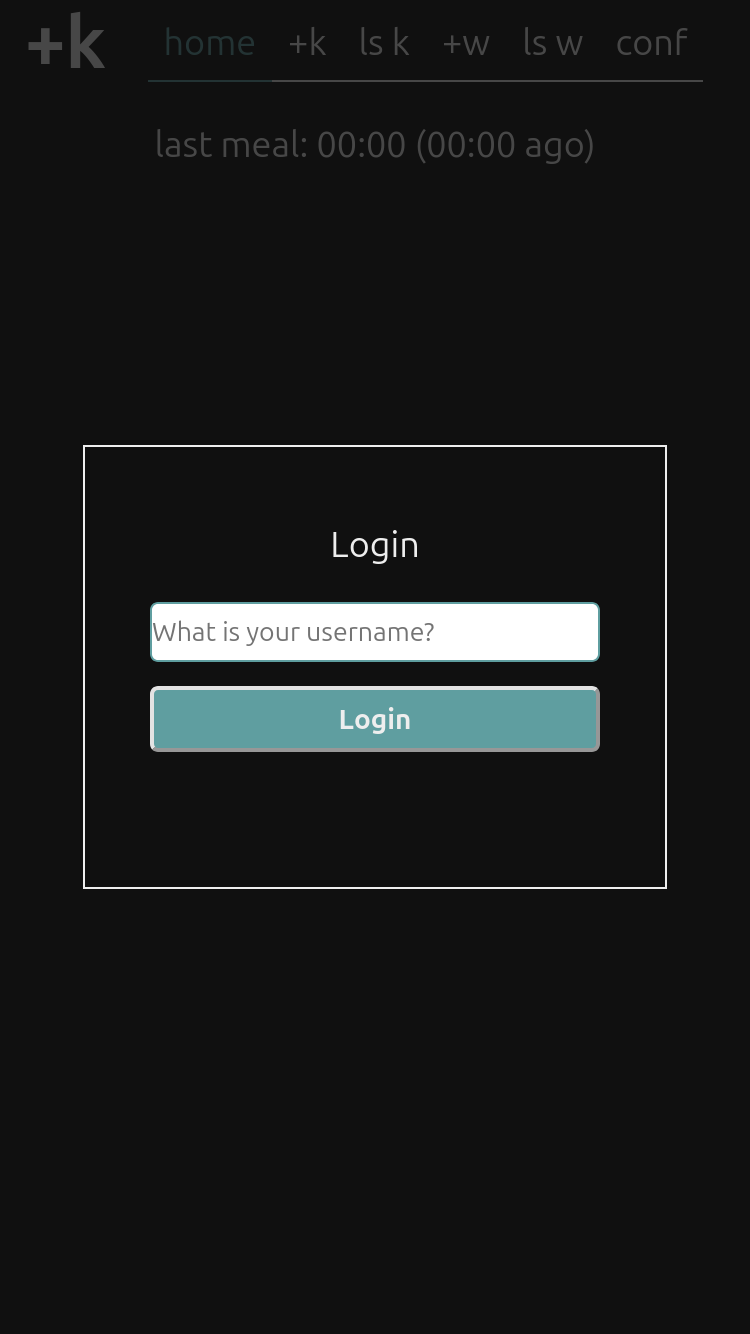
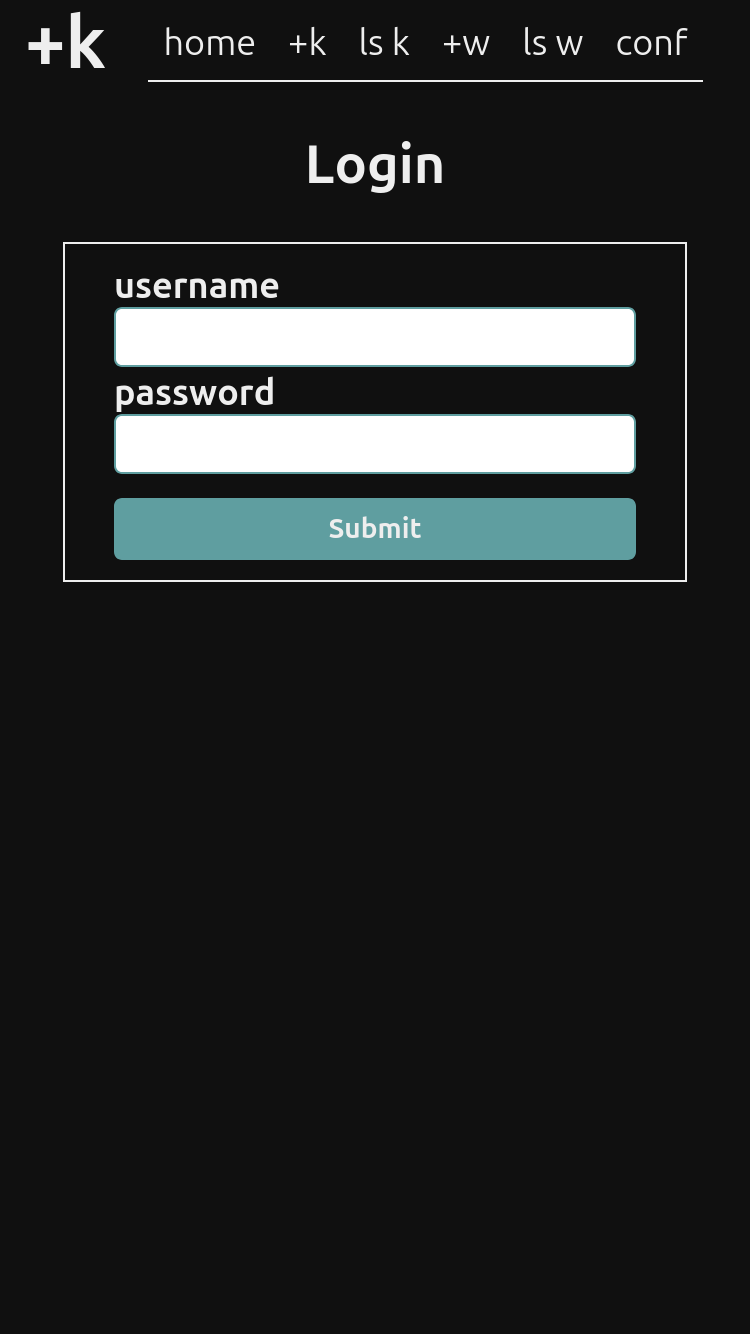
updated readme

diff --git a/readme.md b/readme.md
@@ -10,9 +10,6 @@ With the kcal web server, daily nutrition can be tracked.
 Additionally, today's calorie intake is summarized on the homepage.
 Furthermore, the current weight and waist can be entered and tracked over time in a graph.
 The simple user management is file-based.
-The username is stored in the browser's localStorage.
-If there is no name in localStorage, it is requested through a dialog.
-The username is appended to each request to the server to load the data from the correct file.
 
 This project runs exclusively on a Debian-based Linux system.
 The project has been tested on a Raspberry Pi 3 with the operating system Raspbian GNU/Linux 12.
@@ -21,7 +18,7 @@ Node version 21 is required
 ## frontend
 
 When the browser visits the website for the first time,
-the user is prompted to provide a name, i.e., to sign in.
+the user is prompted to sign in.
 
 <p align="center">
     <img src="/docs/login.png" width="300"/>
@@ -166,4 +163,6 @@ But it [currently doesn't support arm32 architecture](https://github.com/denolan
 9. Refreshed knowledge on eslint.
 10. Refreshed knowledge on github workflows.
 11. Simple, file-based, user mangement.
-12. Working with the browsers local storage
+12. Working with the browsers local storage.
+13. Working with the browsers session storage.
+14. Different use of Basic Authentication.
